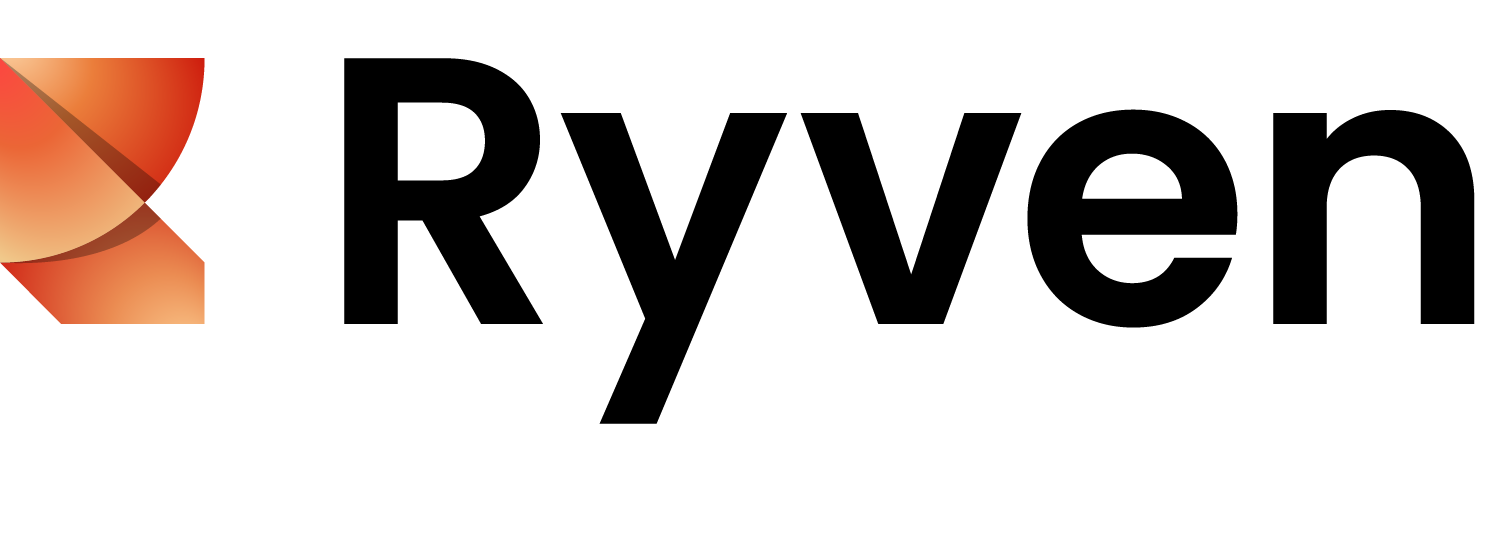
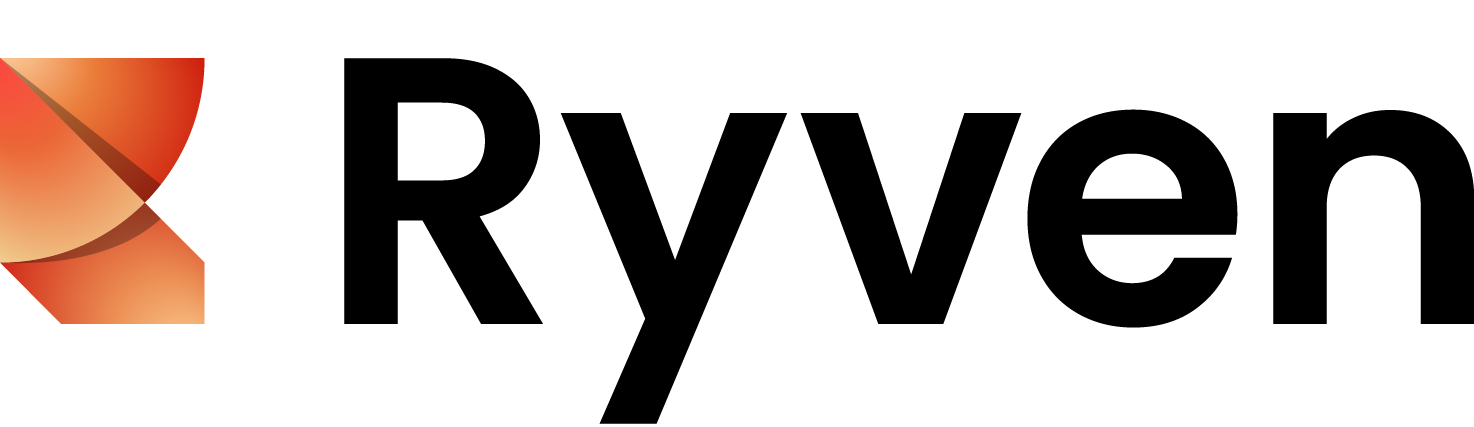
adjusted clients section, colors variables, and added footer

Changed region(s): [[0.5617, 0.1827, 1.0, 0.7916], [0.2185, 0.0913, 0.5929, 1.0], [0.0, 0.0913, 0.156, 0.7611]]

diff --git a/css/main.css b/css/main.css
@@ -31,24 +31,24 @@
   --card-border: #FFFFFF12;
   --bg-emphasize: #1C21254D;
   --bg-dark: #0C1115;
-  --bg-lighter: #15171c;
+  --bg-lighter: #13181d;
   --text-primary: #FFFFFF;
-  --text-secondary: #FFFFFFB3;
-  --text-tertiary: #7B8898;
+  --text-secondary: #FFFFFFA3;
+  --text-tertiary: #606878;
   --shadow-color: #00000059;
 }
 
 :root[data-theme="theme-light"] {
   --primary: #6b31f5;
   --primary-light: #865ee4;
-  --secondary: #e5c405;
+  --secondary: #d6c400;
   --card-border: #00000012;
-  --bg-emphasize: #E2E2E64D;
+  --bg-emphasize: #E2E2E94D;
   --bg-dark: #ffffff;
-  --bg-lighter: #fafbfe;
+  --bg-lighter: #f6f7fa;
   --text-primary: #161616;
   --text-secondary: #161616B3;
-  --text-tertiary: #6e6e6e;
+  --text-tertiary: #9a9a9f;
   --shadow-color: #0000000f;
 }
 
@@ -322,6 +322,11 @@ header .left span {
 header .left img {
   height: 40%;
   margin-right: 5%;
+  transition: .4s ease;
+}
+
+html[data-theme="theme-light"] header .left img {
+  filter: brightness(0);
 }
 
 header .right {
@@ -369,4 +374,39 @@ header .right .desktop-navigation .changer:hover {
   width: var(--content-width);
   max-width: var(--content-max-width);
   margin: 0 auto;
+}
+
+footer {
+  width: 100%;
+  border-top: 1px solid var(--card-border);
+  background-color: var(--bg-lighter);
+}
+
+footer .content {
+  padding: 8vh 0;
+  display: flex;
+  flex-direction: row;
+  justify-content: space-between;
+  align-items: stretch;
+}
+
+footer .content .column {
+  display: flex;
+  flex-direction: column;
+  justify-content: space-between;
+}
+
+footer .column h3 {
+  margin-bottom: 2vh;
+  color: var(--text-secondary)
+}
+
+footer span, footer a {
+  font-size: 1.1rem;
+  color: var(--text-tertiary);
+  margin-bottom: 1vh;
+}
+
+footer a:hover {
+  color: var(--text-secondary);
 }

diff --git a/index.html b/index.html
@@ -393,13 +393,13 @@
           <div class="client"><img src="img/clients/julis.png" alt=""></div>
           <div class="client"><img src="img/clients/openmind.png" alt=""></div>
           <div class="client"><img src="img/clients/ryven.png" alt=""></div>
-          <div class="client"><img src="img/clients/waldsamkeit.png" alt=""></div>
+          <div class="client"><img id="waldsamkeit" src="img/clients/waldsamkeit.png" alt=""></div>
           <div class="client"><img src="img/clients/tableq.png" alt=""></div>
         </div>
       </div>
     </div>
 
-    <div class="contact" id="Kontakt">
+    <div class="contact" id="kontakt">
       <div class="content">
         <h2>Kontakt</h2>
         <form action="javascript:sendMail()">
@@ -419,6 +419,34 @@
         </form>
       </div>
     </div>
+
+    <footer>
+      <div class="content">
+        <div class="column">
+          <h3>Kontakt</h3>
+          <a href="mailto:kontakt@samuelwoelfl.de">kontakt@samuelwoelfl.de</a>
+          <a href="tel:00491717051245">+49 171 7051245</a>
+        </div>
+        <div class="column">
+          <h3>Adresse</h3>
+          <span>Burghaldenweg 64</span>
+          <span>70469 Stuttgart</span>
+        </div>
+        <div class="column">
+          <h3>Rechtliches</h3>
+          <a href="impressum.html">Impressum</a>
+          <a href="datenschutz.html">Datenschutz</a>
+        </div>
+        <div class="column">
+          <span>© <span id="year"></span> Samuel Wölfl</span>
+        </div>
+        <script type="text/javascript">
+          // always fill the copyright span with the current year
+          let year = new Date().getFullYear();
+          $("#year").html(year)
+        </script>
+      </div>
+    </footer>
 
 
   </div>

diff --git a/css/index.css b/css/index.css
@@ -245,10 +245,15 @@ canvas {
 }
 
 .client img {
-  max-height: 23%;
-  max-width: 47%;
+  max-height: 20%;
+  max-width: 53%;
   filter: brightness(0) invert(1);
-  opacity: .8;
+  opacity: .9;
+}
+
+.client img#waldsamkeit {
+  max-width: 47%;
+  max-height: 33%;
 }
 
 html[data-theme="theme-light"] .client img {
@@ -376,24 +381,23 @@ h2.carousel_heading {
 
 label {
   display: block;
-  font-size: 1.1rem;
   margin: 2% 0 1% 0;
-  opacity: .5;
+  color: var(--text-secondary);
 }
 
 input:not([type=submit]), textarea {
   display: block;
   width: 70%;
-  font-size: 1.2rem;
+  font-size: 1.1rem;
   padding: 1%;
   background-color: var(--bg-lighter);
   border: 1px solid var(--card-border);
-  border-radius: 3px;
+  border-radius: 4px;
   margin-bottom: 2%;
 }
 
 textarea {
-  font-size: 1.1rem;
+  font-size: 1rem;
 }
 
 input:focus, textarea:focus {
@@ -427,4 +431,10 @@ input[type=submit] {
   background-color: var(--primary);
   border: none;
   border-radius: 5px;
+  transition: .1s ease;
+}
+
+input[type=submit]:hover {
+  cursor: pointer;
+  background-color: var(--primary-light);
 }
